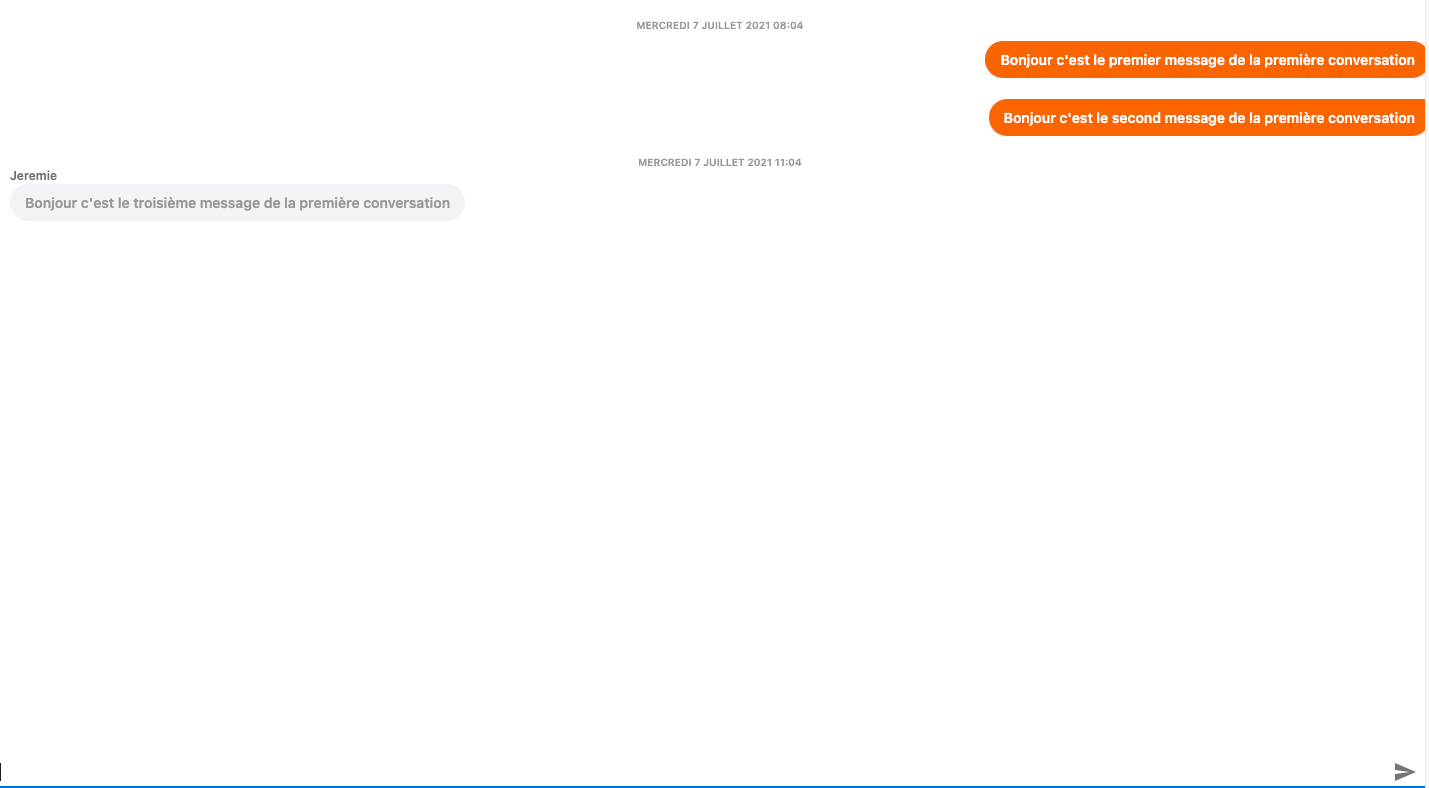
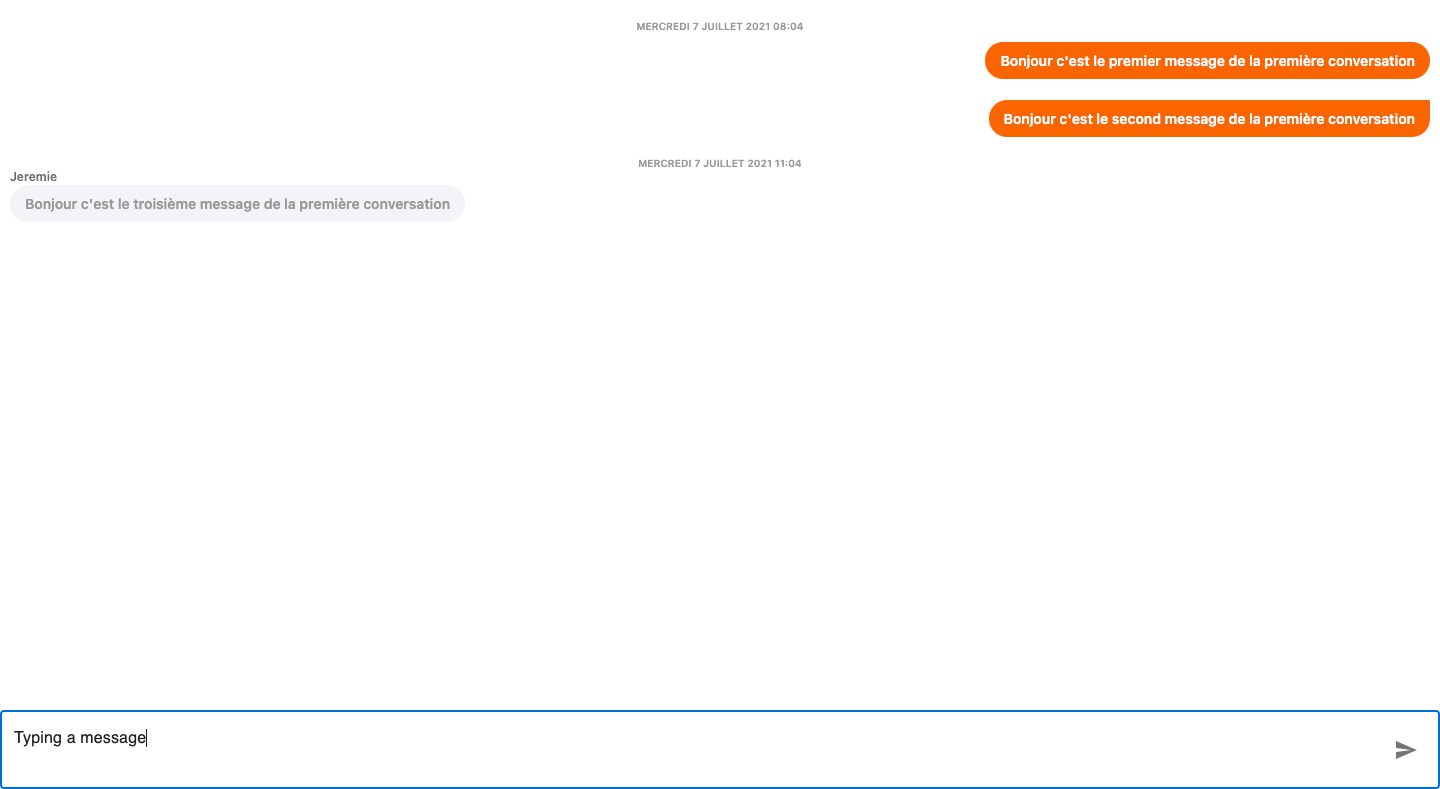
updated readme
nicer screenshots and more cases

diff --git a/src/api/messages.ts b/src/api/messages.ts
@@ -6,8 +6,11 @@ export const getMessages = (id:number) =>
 
 export const sendMessage = async (id:number ,options:object) => {
     const response = await fetch(`${baseUrl}/messages/${id}`, options)
-   
     const data = await response.json()
+    if (!response.ok) {
+        throw new Error(data.message);
+    }
+   
   
     return data
 }

diff --git a/README.md b/README.md
@@ -41,9 +41,13 @@ Mobile conversation :
 
 ![](./sketches/msg-mobile.png)
 
-Mobile empty conversation :
+Mobile conversation when trying to send an empty message:
 
-![](./sketches/msg-mobile-no-messages.png)
+![](./sketches/msg-mobile-error.png)
+
+Desktop empty conversation :
+
+![](./sketches/msg-desktop-no-msg.png)
 
 Desktop conversation :
 
